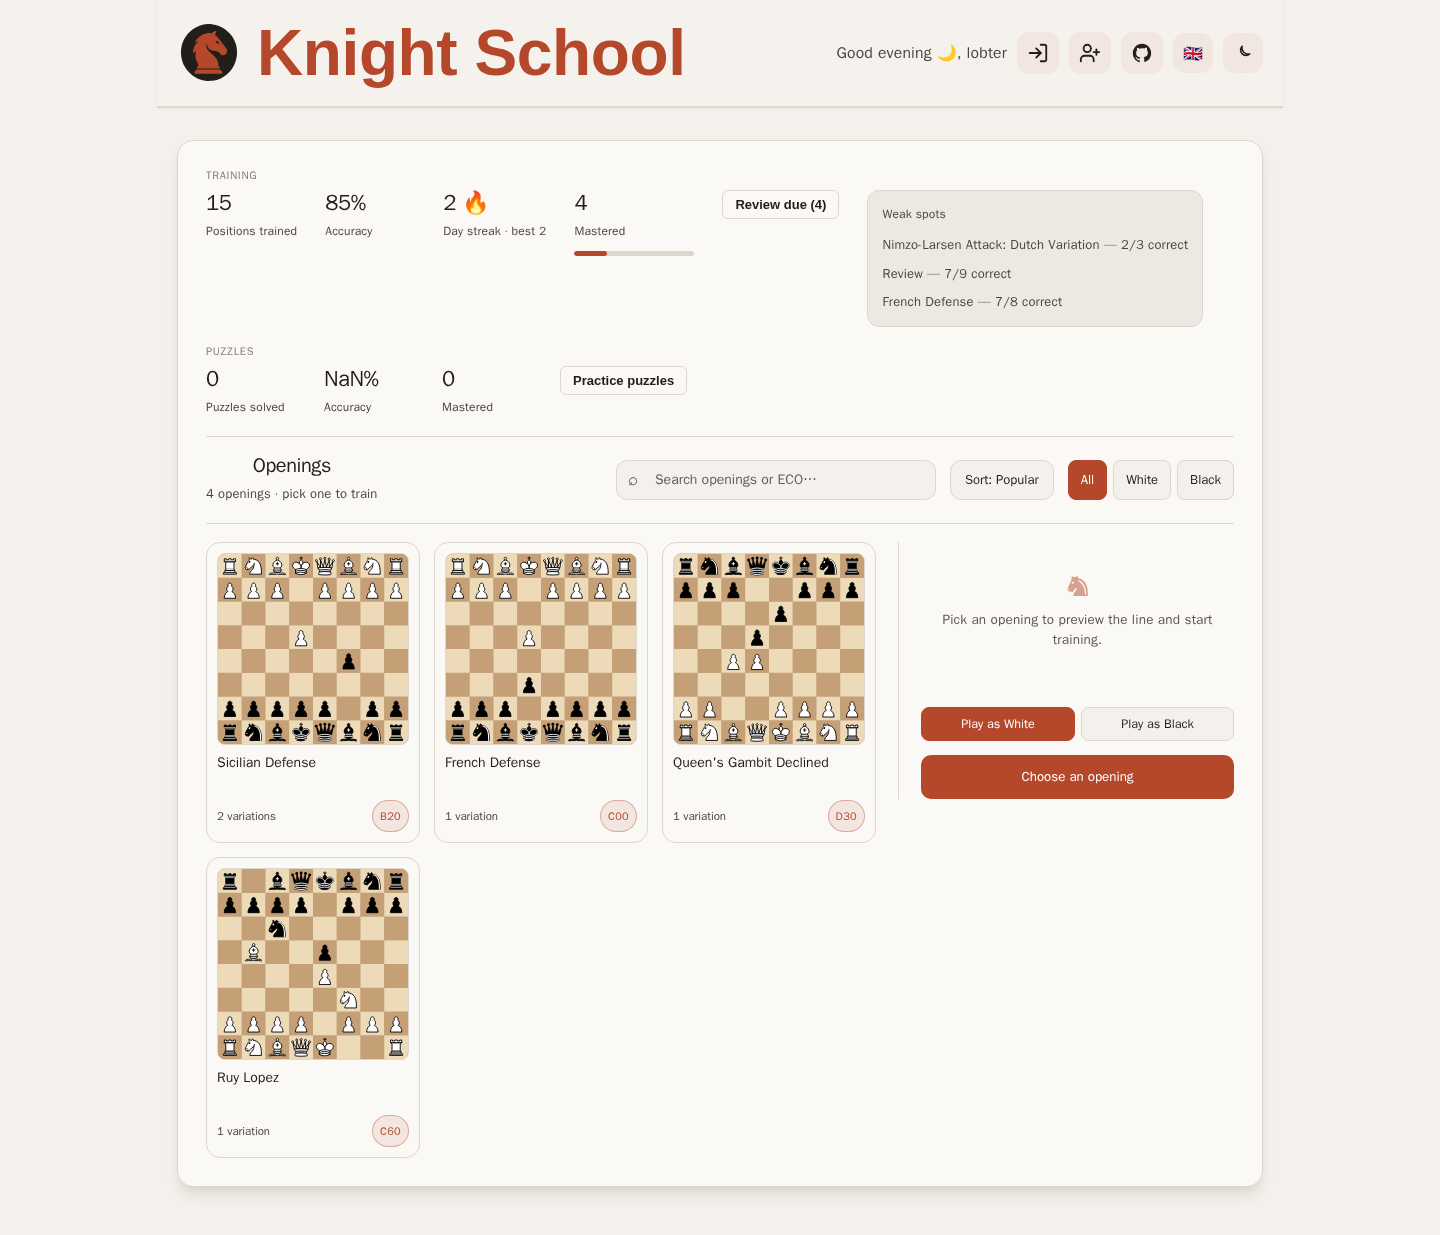
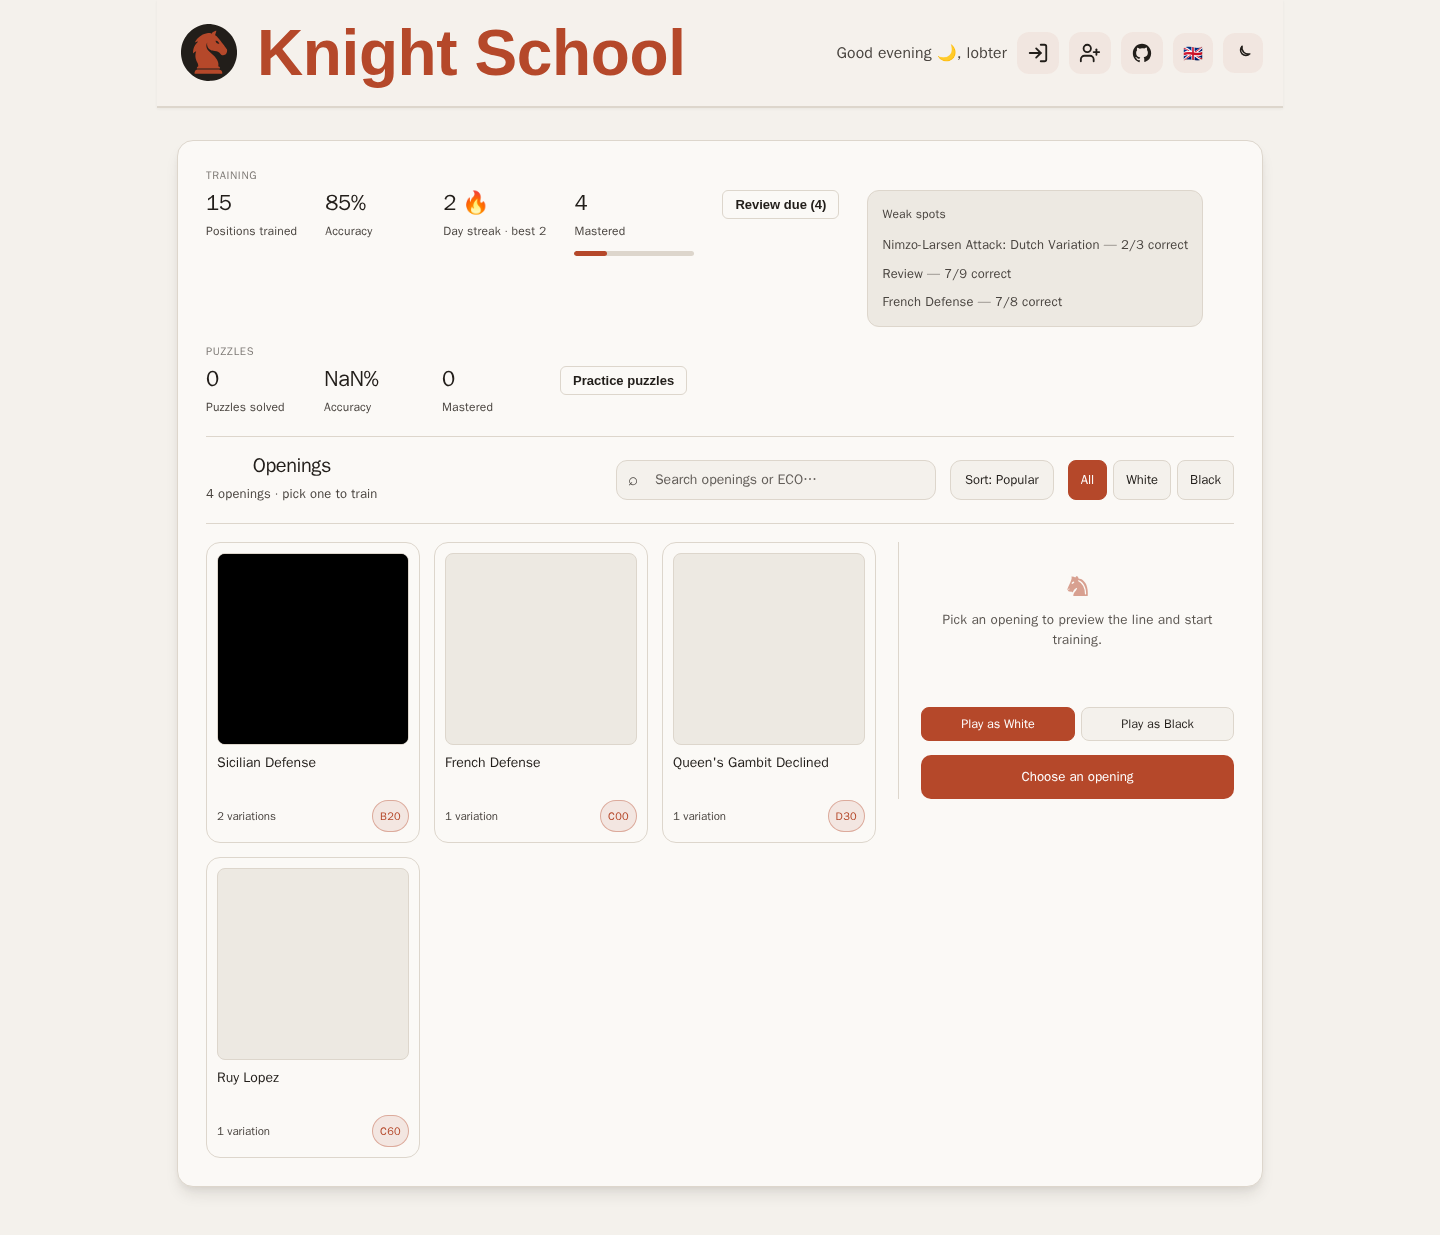
fix(board): Update board props

Changed region(s): [[0.125, 0.4308, 0.625, 0.6154], [0.125, 0.6769, 0.2812, 0.8615]]

diff --git a/react/src/components/Board.tsx b/react/src/components/Board.tsx
@@ -7,7 +7,16 @@ type BoardProps = {
   orientation: "white" | "black";
   onMove?: (from: string, to: string) => boolean;
   gameOver?: boolean;
+  interactive?: boolean;
+  animated?: boolean;
+  showCoordinates?: boolean;
+  markers?: any[];
+  moveColor?: string;
+  getLegalMoves?: (square: string) => any[];
+  onMoveStart?: (square: string) => boolean;
 };
+
+export type BoardMarker = any; // Export for use in other components
 
 export default function Board({
   position,
@@ -30,7 +39,7 @@ export default function Board({
 
     boardRef.current = board;
 
-    board.enableMoveInput((event) => {
+    board.enableMoveInput((event: { type: string; squareFrom?: string; squareTo?: string }) => {
       switch (event.type) {
         case INPUT_EVENT_TYPE.moveStart:
           return true;
